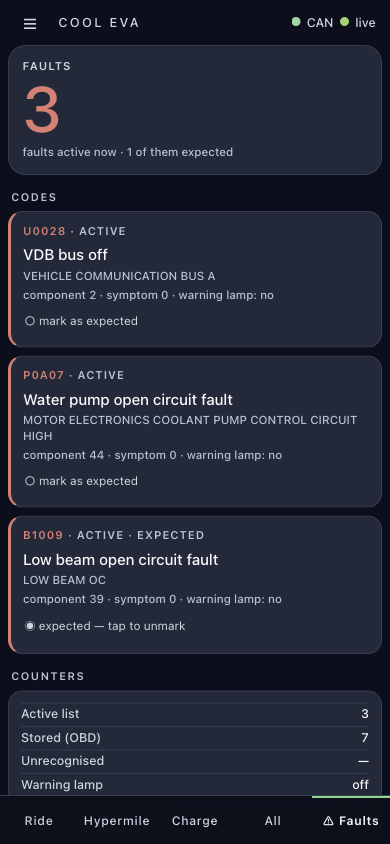
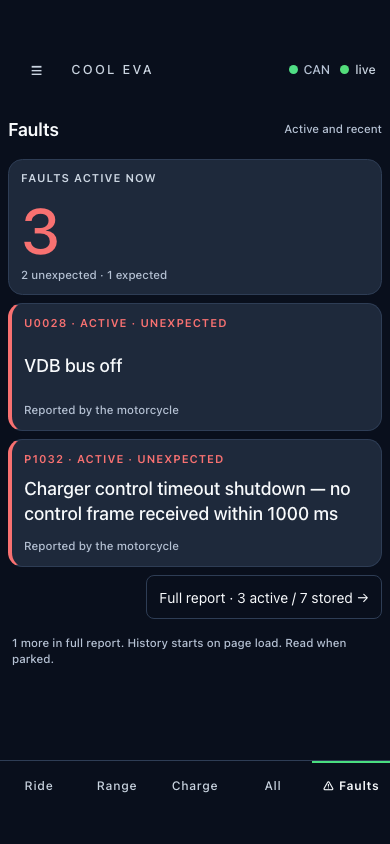
README: screenshots of the redesigned riding screens (#352)
From Daniel's AI agent. The README gallery now shows the redesigned riding screens: seven dark-theme 390×844 captures of the real dashboard (Ride, Charge, Faults, Cooling, Range, Cells, All).

- **Synthetic data only.** The preview clock is pinned, and each capture asserts that the visible text carries no identifying or location strings.
- **Charge example is coherent.** It replaces the old sample's impossible "32 A under a 35 A minimum": 36 A delivered at 358 V, command and reply 36 A under automatic reduction, and the observed curve at 43/47 °C giving the same 36 A ceiling.
- **Range example matches the Eva's ~21.5 kWh pack.** It shows 9.9 kWh left at 46 % SOC, with a range consistent with its consumption.
- **Lossless images.** Compression is pixel-identical to the captures, and the images carry no metadata.
- **README:** only the gallery and its captions change.

Closes the screenshot item of #183.

diff --git a/README.md b/README.md
@@ -6,12 +6,17 @@ It is developed on a **2021 Eva Ribelle**. Other models need checking: some disp
 
 ## What it looks like
 
-Current dashboard with sample data; coolant readings use the optional probes. Tap a screenshot to enlarge it.
+Current dashboard with synthetic sample data; coolant readings use the optional probes. Tap a screenshot to enlarge it.
 
 | Ride | Charge | Faults |
 | :-: | :-: | :-: |
-| [<img src="docs/images/dashboard-ride-dark.png" width="180" alt="Ride screen for speed, power, battery and coolant temperatures">](docs/images/dashboard-ride-dark.png) | [<img src="docs/images/dashboard-charge-dark.png" width="180" alt="Charge screen for battery percentage, charging power, current and automatic current control">](docs/images/dashboard-charge-dark.png) | [<img src="docs/images/dashboard-faults-dark.png" width="180" alt="Faults screen for named active trouble codes and diagnostic counters">](docs/images/dashboard-faults-dark.png) |
-| Speed, power, cooling. | Charge and current. | Named trouble codes. |
+| [<img src="docs/images/dashboard-ride-dark.png" width="180" alt="Ride screen showing speed, drive power, available power and coolant readings">](docs/images/dashboard-ride-dark.png) | [<img src="docs/images/dashboard-charge-dark.png" width="180" alt="Charge screen showing delivered power, estimated arrival, current request and observed temperature limits">](docs/images/dashboard-charge-dark.png) | [<img src="docs/images/dashboard-faults-dark.png" width="180" alt="Faults summary with the whole count, expected split and two named previews">](docs/images/dashboard-faults-dark.png) |
+| Speed, power and power limits. | Charging, temperature curve and current request. | Counts and named trouble codes; full report one tap away. |
+
+| Cooling | Range | Cells | All |
+| :-: | :-: | :-: | :-: |
+| [<img src="docs/images/dashboard-cooling-dark.png" width="180" alt="Cooling screen with coolant, battery, motor and ambient temperatures plus fan status">](docs/images/dashboard-cooling-dark.png) | [<img src="docs/images/dashboard-range-dark.png" width="180" alt="Range screen with weakest-cell margin, cut-off timer and drive and regen current allowances">](docs/images/dashboard-range-dark.png) | [<img src="docs/images/dashboard-cells-dark.png" width="180" alt="Cells sub-tab with the complete 81-cell strip, voltage spread and cell positions">](docs/images/dashboard-cells-dark.png) | [<img src="docs/images/dashboard-all-dark.png" width="180" alt="All screen with six live readings above the filter and raw signal grid">](docs/images/dashboard-all-dark.png) |
+| Temperatures and fan status. | Weak-cell margin and current allowances. | All 81 cell voltages. | Live snapshot; raw signals below. |
 
 ## What to buy
 
